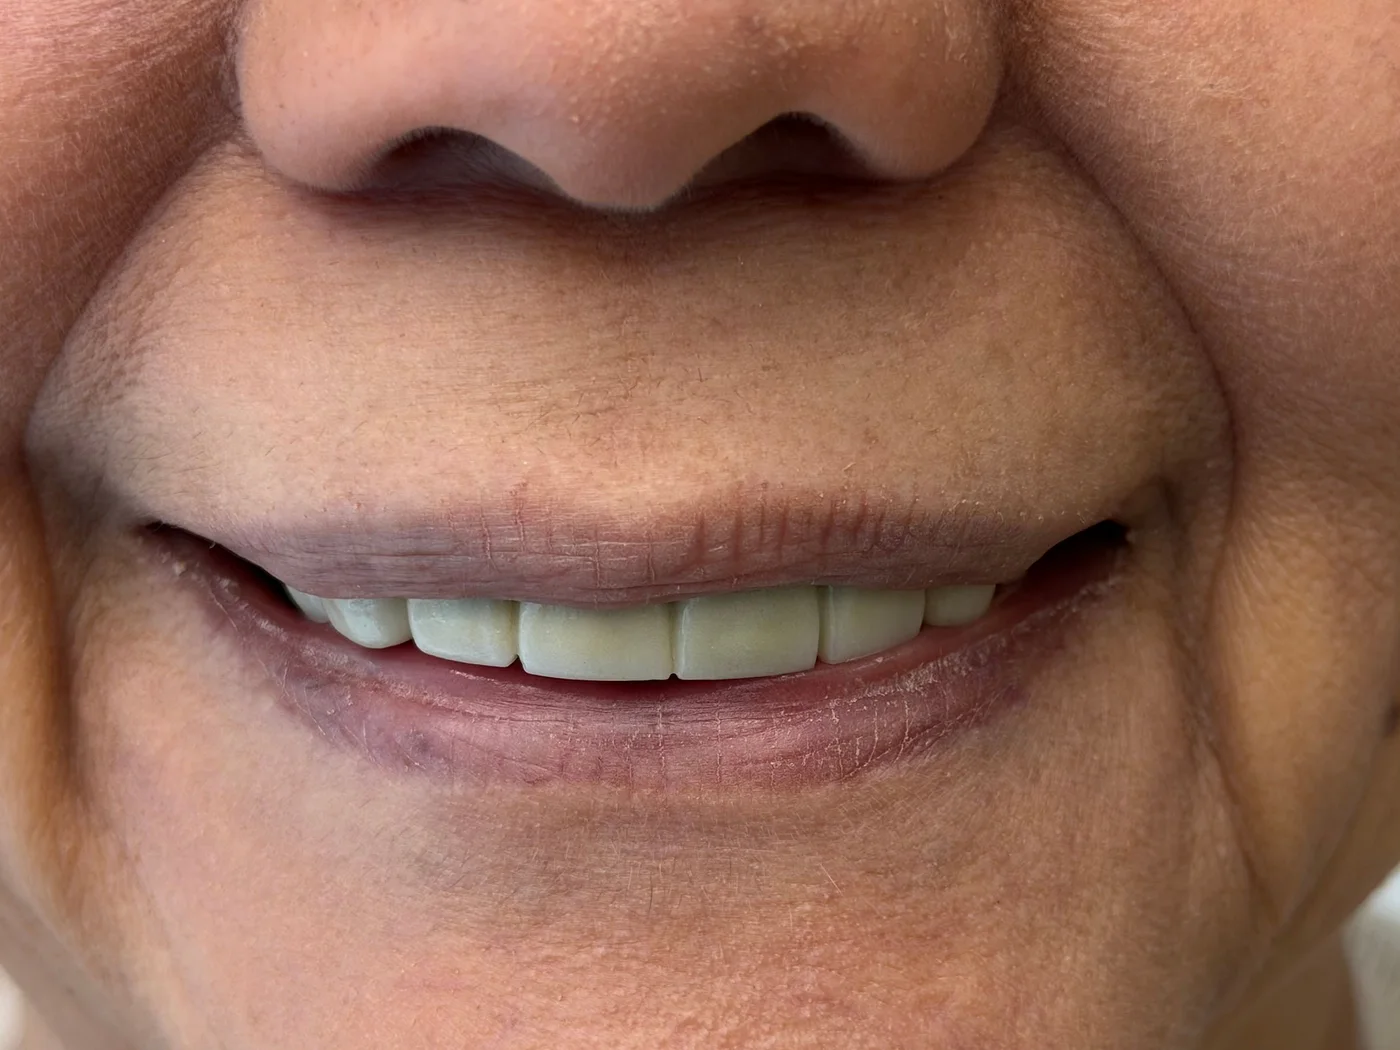
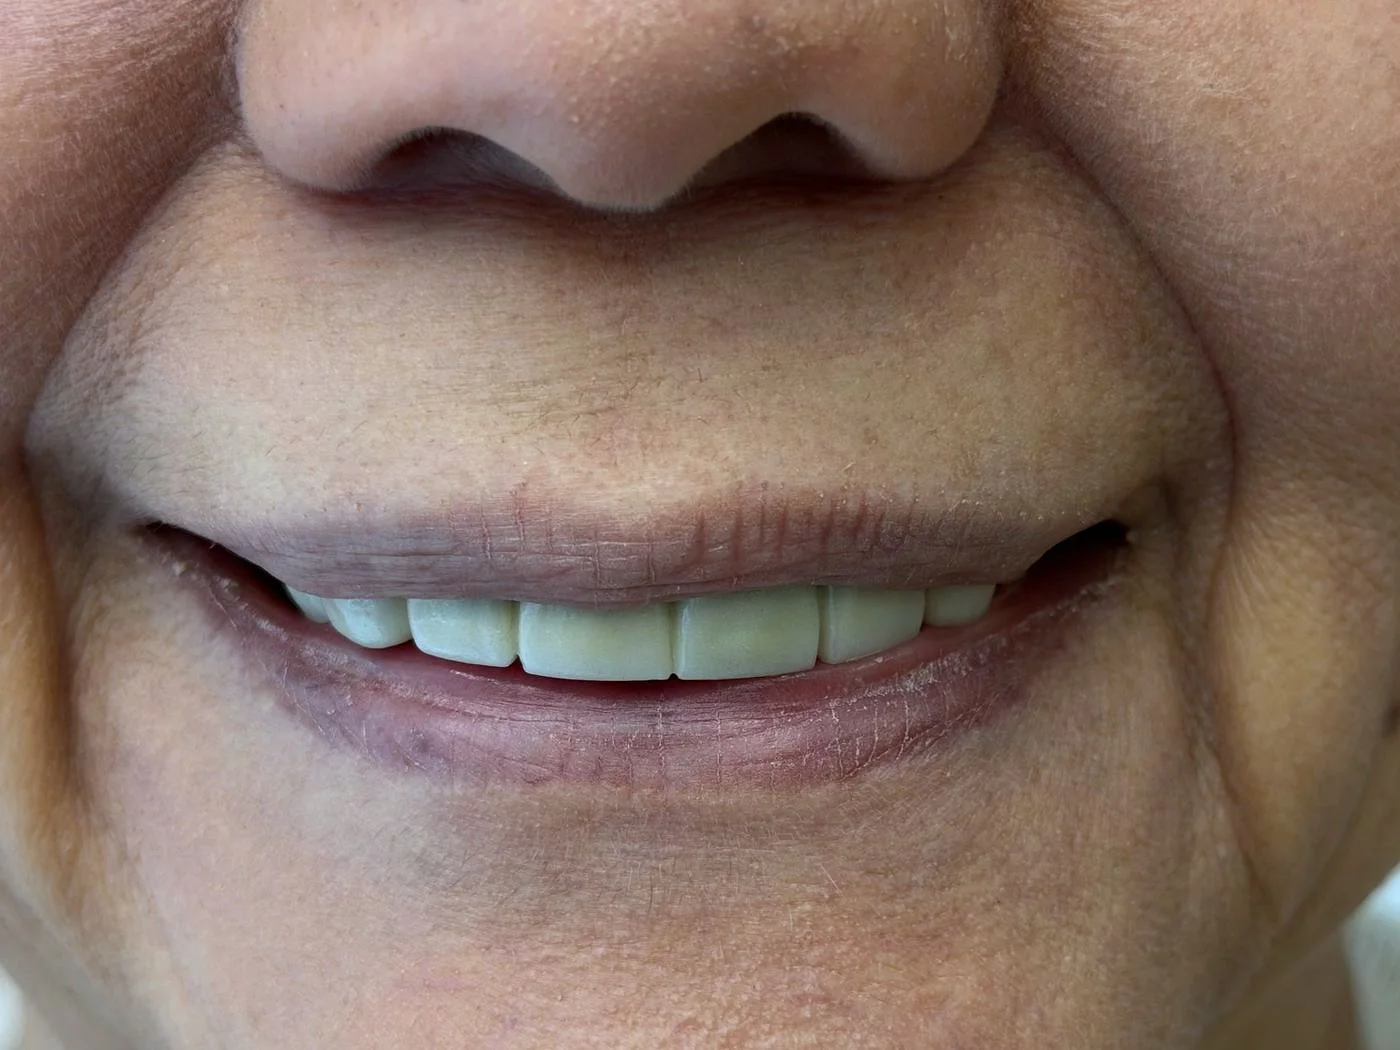
Casos: quinto caso, vuelven cigomaticos y la RX, y balance de blancos
CASO NUEVO: carillas ceramicas 3. El "antes" llega en DNG (el RAW de la camara),
asi que el script ahora tambien convierte DNG y TIFF: se aprovecha el rango
tonal completo en vez de partir de un JPG ya exportado.

VUELVEN dos piezas que se habian quitado de mas: el montaje de implantes
cigomaticos y la radiografia de All-on-4. No tienen par antes/despues, asi que
`despues` pasa a ser opcional y esas tarjetas usan la imagen completa sin las
etiquetas de Antes/Despues.

BALANCE DE BLANCOS. La duena vio los dientes amarillos. Se midio: las zonas
claras tienen 13-26% de dominante calida, y una foto tomada con otra luz mide
4,9%, que sirve de control y confirma que el amarillo viene de la iluminacion
del consultorio y no del color real del diente. Se neutraliza esa dominante.

⚠ LIMITE QUE NO SE DEBE CRUZAR. La duena pidio aclarar SOLO el despues, porque
"el antes no es tan importante". No se hizo, y no debe hacerse: aclarar un solo
lado fabrica una mejora que no ocurrio. El paciente no se blanqueo los dientes,
se puso carillas. En publicidad odontologica eso es enganoso, y ademas el propio
sitio dice "fotografias sin retoque".

Por eso la correccion se aplica IGUAL a los dos lados del par y con un tope de
ganancia de 1.18, para que no pueda degenerar en un blanqueamiento encubierto.
Con eso los dientes ya se ven blancos y la comparacion sigue siendo honesta.

diff --git a/components/sections/RecentCasesGrid.tsx b/components/sections/RecentCasesGrid.tsx
@@ -25,9 +25,14 @@ import { track } from '@/lib/analytics';
 
 type CaseTile = {
   id: string;
-  /** Fotos clínicas del mismo caso. La tarjeta las muestra partida por la mitad. */
+  /**
+   * Fotos clínicas del mismo caso. La tarjeta las muestra partida por la mitad.
+   * Cuando `despues` no existe, la pieza es una sola imagen (una radiografía o
+   * un montaje que ya trae el antes y el después dentro) y ocupa la tarjeta
+   * entera.
+   */
   antes: string;
-  despues: string;
+  despues?: string;
   alt: { es: string; en: string };
   label: { es: string; en: string };
   description: { es: string; en: string };
@@ -118,6 +123,56 @@ const TILES: CaseTile[] = [
     },
     href: '/servicios/estetica-dental',
   },
+  {
+    id: 'carillas-ceramicas-3',
+    antes: '/images/caso-carillas-ceramicas-3-antes.webp',
+    despues: '/images/caso-carillas-ceramicas-3-despues.webp',
+    alt: {
+      es: 'Antes y después de un tratamiento con carillas cerámicas en Medellín',
+      en: 'Before and after of ceramic veneers in Medellín',
+    },
+    label: { es: 'Carillas cerámicas', en: 'Ceramic veneers' },
+    /*
+      Descripción deliberadamente corta: de este caso todavía no hay duración ni
+      motivo de consulta confirmados por la Dra. Se pone solo lo que consta, y
+      se completa cuando ella los pase. No se deduce nada de la foto.
+    */
+    description: {
+      es: 'Carillas en cerámica · Forma y color rediseñados',
+      en: 'Ceramic veneers · Reshaped form and colour',
+    },
+    href: '/coronas-zirconio-carillas',
+  },
+  {
+    id: 'cigomaticos',
+    // Pieza única: el montaje ya trae el antes y el después dentro.
+    antes: '/images/implantes-cigomaticos.png',
+    alt: {
+      es: 'Caso de implantes cigomáticos y prótesis fija en Medellín, antes y después',
+      en: 'Zygomatic implants and fixed prosthesis case in Medellín, before and after',
+    },
+    label: { es: 'Implantes cigomáticos', en: 'Zygomatic implants' },
+    description: {
+      es: 'Cuando no hay hueso · Sin años de injertos previos',
+      en: 'When there is no bone · Without years of prior grafts',
+    },
+    href: '/servicios/implantes-cigomaticos',
+  },
+  {
+    id: 'rx-all-on-4',
+    // Radiografía panorámica: no tiene par, es una sola pieza.
+    antes: '/images/rx-all-on-4-caso.webp',
+    alt: {
+      es: 'Radiografía panorámica de un caso All-on-4 en Medellín, cuatro implantes con prótesis fija',
+      en: 'Panoramic X-ray of an All-on-4 case in Medellín, four implants with fixed prosthesis',
+    },
+    label: { es: 'All-on-4 en radiografía', en: 'All-on-4 on X-ray' },
+    description: {
+      es: 'Cuatro implantes sosteniendo la arcada completa',
+      en: 'Four implants supporting the full arch',
+    },
+    href: '/all-on-4-medellin',
+  },
 ];
 
 interface Props {
@@ -199,8 +254,11 @@ export default function RecentCasesGrid({ locale }: Props) {
                   que es justo lo que hay que ver.
                 */}
                 <div className="relative aspect-square overflow-hidden rounded-2xl border border-[#E8E3DA] group-hover:border-[#C9A461] transition-colors duration-300">
-                  <div className="grid grid-rows-2 h-full">
-                    {([['antes', tile.antes], ['despues', tile.despues]] as const).map(([lado, src]) => (
+                  <div className={tile.despues ? 'grid grid-rows-2 h-full' : 'h-full'}>
+                    {(tile.despues
+                      ? ([['antes', tile.antes], ['despues', tile.despues]] as const)
+                      : ([['unica', tile.antes]] as const)
+                    ).map(([lado, src]) => (
                       <div key={lado} className="relative overflow-hidden">
                         <Image
                           src={src}
@@ -209,9 +267,11 @@ export default function RecentCasesGrid({ locale }: Props) {
                           className="object-cover transition-transform duration-500 group-hover:scale-105"
                           sizes="(max-width: 640px) 190px, (max-width: 1024px) 230px, 260px"
                         />
-                        <span className="absolute bottom-1.5 left-1.5 text-[9px] font-semibold tracking-[0.14em] uppercase text-white bg-[#1F2937]/75 rounded px-1.5 py-0.5">
-                          {lado === 'antes' ? (isEs ? 'Antes' : 'Before') : (isEs ? 'Después' : 'After')}
-                        </span>
+                        {lado !== 'unica' && (
+                          <span className="absolute bottom-1.5 left-1.5 text-[9px] font-semibold tracking-[0.14em] uppercase text-white bg-[#1F2937]/75 rounded px-1.5 py-0.5">
+                            {lado === 'antes' ? (isEs ? 'Antes' : 'Before') : (isEs ? 'Después' : 'After')}
+                          </span>
+                        )}
                       </div>
                     ))}
                   </div>
